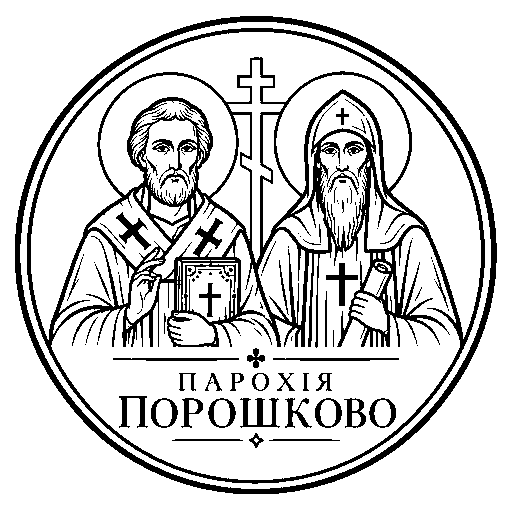
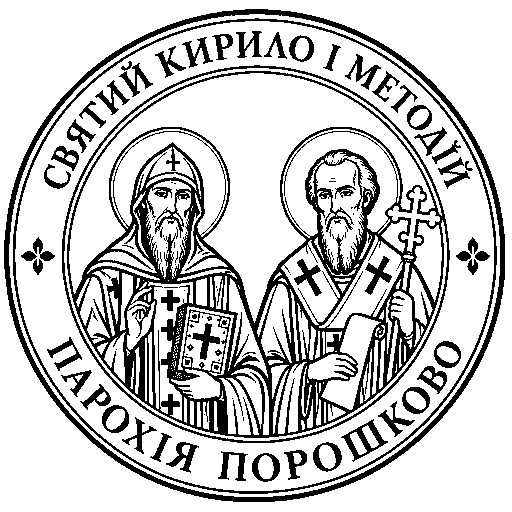
Apply final parish seal, contact links and parish Google verification

Changed region(s): [[0.0, 0.0, 1.0, 1.0]]

diff --git a/assets/site.css b/assets/site.css
@@ -11,3 +11,7 @@
 /* Parish media: preserve full supplied compositions and seal proportions. */
 .brand-logo{width:60px;height:60px;object-fit:contain;flex-shrink:0}.page-photos{margin-top:55px}.section-photo-grid{display:grid;grid-template-columns:repeat(2,minmax(0,1fr));gap:28px;align-items:start}.section-photo-grid.single-photo{max-width:650px;grid-template-columns:1fr}.parish-photo{min-width:0;background:var(--white);border:1px solid var(--line);align-self:start}.parish-photo figcaption{padding:15px 18px 18px}.parish-photo figcaption strong{display:block;font-size:14px;color:var(--ink);font-weight:550}.parish-photo figcaption span{display:block;margin-top:5px;font-size:11px;color:var(--muted)}.gallery-grid{align-items:start}.hero-image{min-width:0}.hero-image figcaption{font-size:13px}.lightbox img{width:100%;height:75dvh;object-fit:contain}
 @media(max-width:620px){.brand-logo{width:44px;height:44px}.section-photo-grid{grid-template-columns:1fr}.page-photos{margin-top:35px}}
+
+.footer .footer-logo-link{display:inline-block;padding:0}.footer-logo{width:72px;height:72px;margin-bottom:18px}
+
+.contact-links{display:flex;flex-wrap:wrap;gap:8px 16px;margin:15px 0 22px}.contact-links a,.footer .contact-links a{display:inline-flex;align-items:center;min-height:44px;padding:7px 10px;border:1px solid var(--line);text-decoration:none;color:var(--accent);font-size:13px}.contact-links .phone-link{font-weight:600}.contact-links a:hover{background:var(--white)}

diff --git a/public/googled4db93a6e7198af5.html b/public/googled4db93a6e7198af5.html
@@ -1,0 +1,1 @@
+google-site-verification: googled4db93a6e7198af5.html

diff --git a/docs/MEDIA_ASSETS.md b/docs/MEDIA_ASSETS.md
@@ -23,7 +23,7 @@
 
 ## Логотип
 
[2 lines of base64/hex data omitted]
 
 Техническое имя: `poroshkovo-parish-logo`. Официальное обозначение греко-католической парафии в текстах не менялось по исходному имени файла. Применены обычное монохромное преобразование и ресайз; прозрачным сделан только связанный с краями внешний белый фон. Внутренние белые элементы, лица, надпись и композиция сохранены. Нет новой символики или буквенного заменителя.
 
@@ -34,3 +34,5 @@
 - Ссылки шапки, favicon и manifest имеют версию по хешу содержимого для обновления кеша.
 
 Проверка: `npm run build:production`, `npm run check`, `npm run test:browser`, `npm run test:media`. После деплоя: `MEDIA_BASE_URL=https://poroshkovo.pages.dev npm run test:media` (в PowerShell задаётся через `$env:MEDIA_BASE_URL`). Проверяются действительные фото и иконки, выбранный hero, пропорции, Retina-источники, светлая/тёмная тема браузера, клавиатура/жесты галереи и корневой переход. Скриншот favicon — отдельный проверочный экран реальных файлов на светлом и тёмном фоне, не макет вкладки браузера.
+
+Последний вариант логотипа заменил первоначальную печать по новому прямому указанию владельца. Он используется в шапке, подвале, favicon и иконках телефона. Предыдущий неизменённый оригинал также сохранён в частном фотоархиве.

diff --git a/README.md b/README.md
@@ -35,7 +35,9 @@ npm run test:browser
 
 Владелец предоставил и разрешил опубликовать четыре подготовленных PNG и шесть NEF. Главная фотография обеих языковых версий — `divine-liturgy`, священник за престолом возле чаши. Галерея содержит все десять изображений. Храм и колокольня размещены в About; дети, зимний отдых и группа на ступенях — в Community; благословение, молитва у распятия, иконостас и престол — в Spiritual life. Оригиналы сохранены отдельно, WebP созданы без обрезки и увеличения. Для NEF применены только небольшое осветление и коррекция насыщенности. Имена людей и даты событий не добавлены.
 
-В шапке установлен предоставленный владельцем официальный чёрно-белый круглый логотип Кирилла и Мефодия с надписью «ПАРОХІЯ ПОРОШКОВО». Версии 64–512 px сохраняют композицию и внутренний белый фон, внешний фон прозрачен. ICO 16/32/48, PNG favicon, Apple touch и телефонные иконки подключены с версионированием. Локализованные manifests сохраняют язык главной страницы. Материалы ISF не используются.
+В шапке и подвале установлен последний предоставленный владельцем официальный чёрно-белый круглый логотип Кирилла и Мефодия с надписью «ПАРОХІЯ ПОРОШКОВО». Версии 64–512 px сохраняют композицию и внутренний белый фон, внешний фон прозрачен. ICO 16/32/48, PNG favicon, Apple touch и телефонные иконки подключены с версионированием. Локализованные manifests сохраняют язык главной страницы. Материалы ISF не используются.
+
+Подтверждённый контакт: +380 50 432 19 69, Viber и WhatsApp. Номер и ссылки находятся на странице контактов и в общем подвале. Адрес и email ожидают подтверждения. Файлы Google Search Console — отдельные для этого сайта; см. `docs/SEARCH_CONSOLE.md`.
 
 ## Структура
 

diff --git a/docs/QUESTIONS_FOR_PARISH.md b/docs/QUESTIONS_FOR_PARISH.md
@@ -5,7 +5,7 @@
 1. Подтвердите актуальное имя настоятеля, форму обращения и разрешённую краткую биографию. На сайте МГКЄ указан о. Анатолій Горзов.
 2. Каков действующий недельный график служб, часы исповеди и порядок объявления праздничных изменений? Кто и когда его подтверждает?
 3. Каковы точный адрес входа в храм и ссылка на правильную точку Google Maps? Юридический адрес из агрегатора не принят за адрес посещения.
-4. Какие телефон, email и мессенджеры можно публиковать? Кто отвечает на обращения?
+4. Телефон +380 50 432 19 69, Viber и WhatsApp подтверждены владельцем и опубликованы. Какой email можно добавить и кто отвечает на обращения?
 5. Какие социальные страницы действительно официальные и кому принадлежат?
 6. При последующем расширении фотоархива передайте дополнительные снимки храма и интерьеров с указанием автора и разрешений. Четыре подготовленные фотографии уже предоставлены с прямым поручением владельца опубликовать их; для новых снимков детей сохраняйте соответствующие согласия.
 7. Официальный логотип предоставлен владельцем и установлен. Если есть исходный векторный мастер или требования к охранному полю, передайте их для будущих обновлений.

diff --git a/docs/SEARCH_CONSOLE.md b/docs/SEARCH_CONSOLE.md
@@ -11,3 +11,5 @@
 Cloudflare Pages обычно нормализует адреса `.html`. Поэтому `public/_redirects` содержит точное внутреннее правило 200 для этого URL, указывающее на идентичную plain-text копию в `public/verification/`. Это не перенаправление посетителя и не изменение корневых языковых маршрутов. Корневой HTML-файл также сохранён в сборке. Проверять нужно HTTP 200 по точному выданному адресу и совпадение тела ответа.
 
 Файл не удалять после подтверждения владения: Google может проверять его повторно. Не подменять файлами других проектов. Подтверждение владения и отправка sitemap помогают Google обнаружить страницы, но не гарантируют сроки или позиции в поисковой выдаче. Актуальный результат действий в Search Console записывается в финальном отчёте выпуска.
+
+По прямому уточнению владельца Search Console настраивается в аккаунте `poroshkovasite@gmail.com`. В интерфейсе этого аккаунта Google выдал дополнительный файл `googled4db93a6e7198af5.html`; он также сохранён в корне с собственным точным правилом 200 и plain-text копией. Первоначальный присланный файл сохранён. Оба файла принадлежат только этому проекту.
